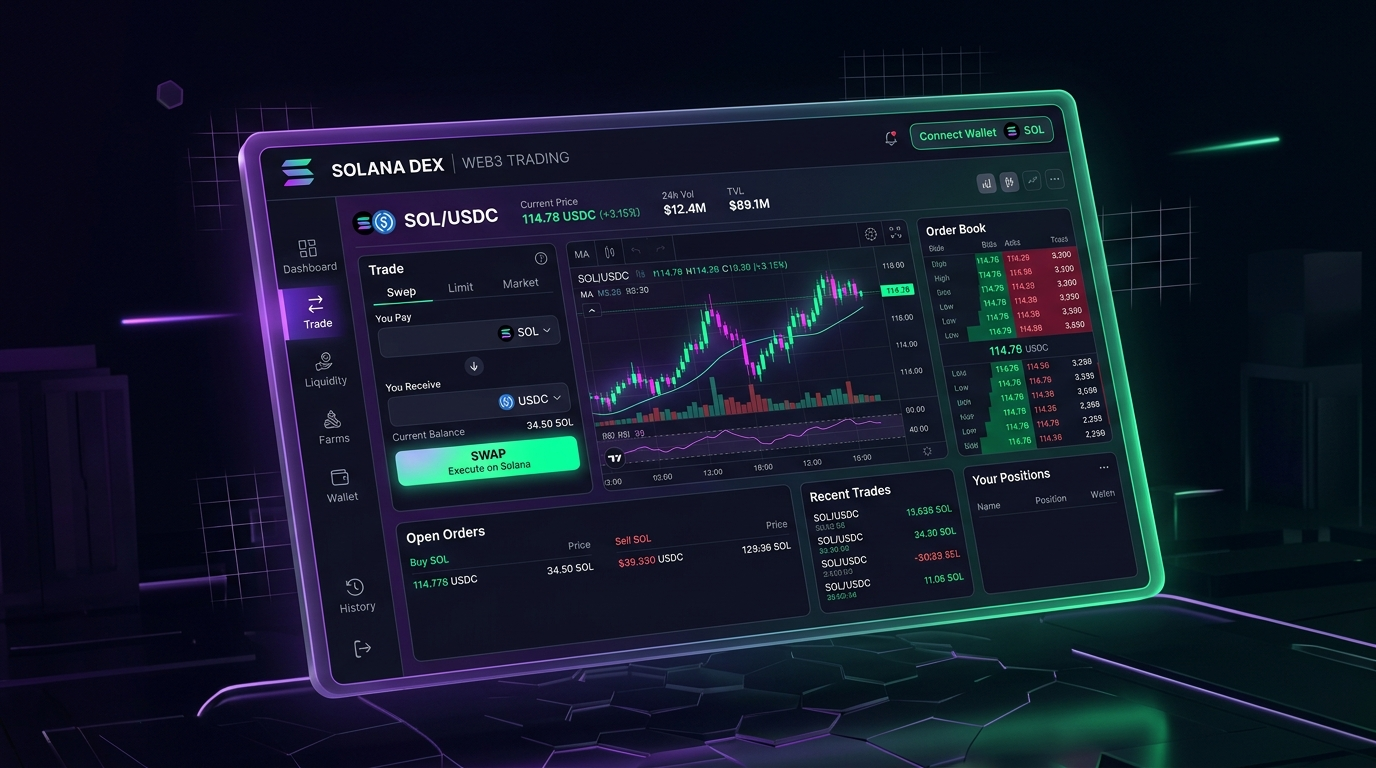
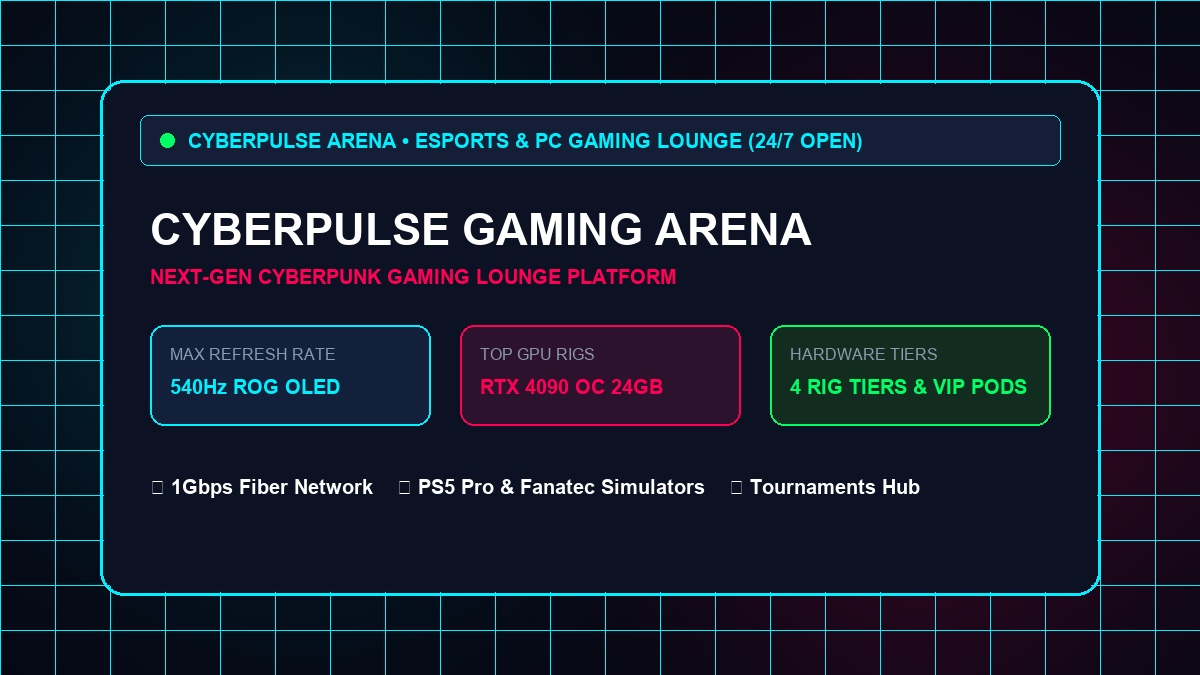
Update portfolio cards with high-res JPG images for CyberPulse Gaming and SaaS Platform

diff --git a/index.html b/index.html
@@ -146,7 +146,7 @@
                 <!-- Project 6: CyberPulse Arena -->
                 <div class="project-card" data-category="gaming">
                     <a href="./page 6/index.html" target="_blank" class="card-banner">
-                        <img src="./portfolio/assets/images/gaming.svg" alt="CyberPulse Gaming Hub">
+                        <img src="./portfolio/assets/images/gaming.jpg" alt="CyberPulse Gaming Hub">
                         <span class="category-tag"><i class="fa-solid fa-gamepad"></i> Gaming & Esports</span>
                     </a>
                     <div class="card-body">
@@ -296,7 +296,7 @@
                 <!-- Project 3: NextGen SaaS -->
                 <div class="project-card" data-category="saas">
                     <a href="./page one/index.html" target="_blank" class="card-banner">
-                        <img src="./portfolio/assets/images/saas.svg" alt="SaaS Product Platform">
+                        <img src="./portfolio/assets/images/saas.jpg" alt="SaaS Product Platform">
                         <span class="category-tag"><i class="fa-solid fa-cubes"></i> SaaS & Corporate</span>
                     </a>
                     <div class="card-body">

diff --git a/portfolio/index.html b/portfolio/index.html
@@ -146,7 +146,7 @@
                 <!-- Project 6: CyberPulse Arena -->
                 <div class="project-card" data-category="gaming">
                     <a href="./page 6/index.html" target="_blank" class="card-banner">
-                        <img src="./portfolio/assets/images/gaming.svg" alt="CyberPulse Gaming Hub">
+                        <img src="./portfolio/assets/images/gaming.jpg" alt="CyberPulse Gaming Hub">
                         <span class="category-tag"><i class="fa-solid fa-gamepad"></i> Gaming & Esports</span>
                     </a>
                     <div class="card-body">
@@ -296,7 +296,7 @@
                 <!-- Project 3: NextGen SaaS -->
                 <div class="project-card" data-category="saas">
                     <a href="./page one/index.html" target="_blank" class="card-banner">
-                        <img src="./portfolio/assets/images/saas.svg" alt="SaaS Product Platform">
+                        <img src="./portfolio/assets/images/saas.jpg" alt="SaaS Product Platform">
                         <span class="category-tag"><i class="fa-solid fa-cubes"></i> SaaS & Corporate</span>
                     </a>
                     <div class="card-body">